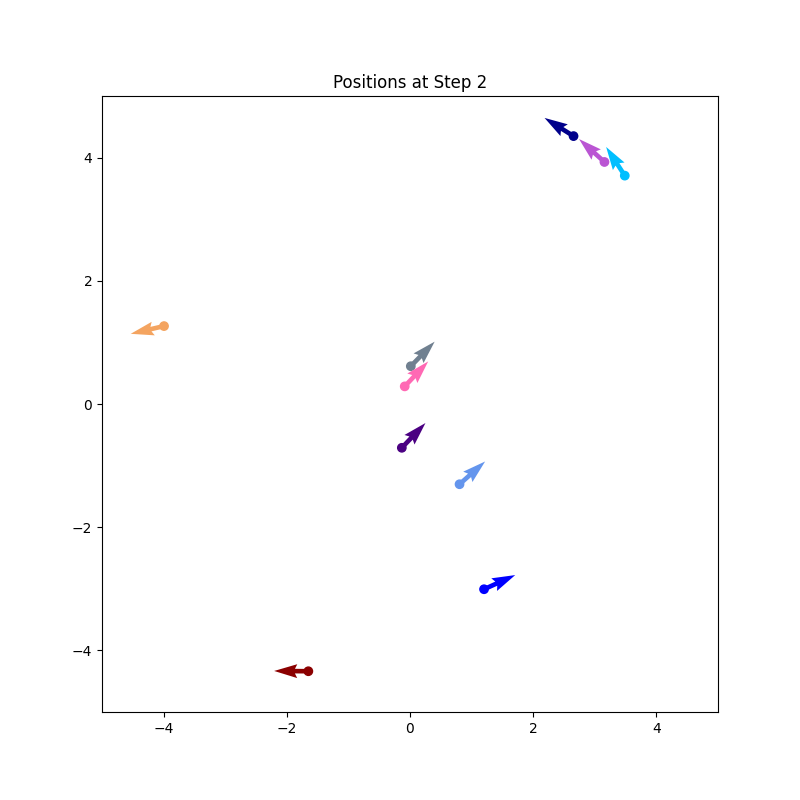
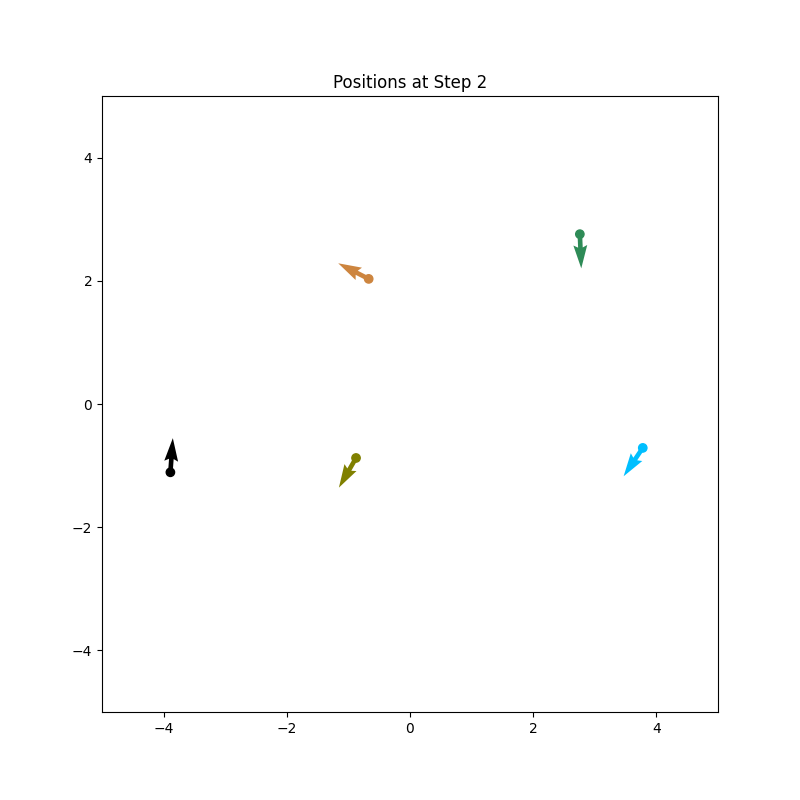
Added steric forces, needs to be corrected

diff --git a/Code/vicsek.py b/Code/vicsek.py
@@ -18,6 +18,7 @@ class Vicsek_continous:
         self.size = L/R
         self.density = (N*R**2)/(L**2)
         self.ratio = v0/R
+        self.Fs_x, self.Fs_y, self.Fl_x, self.Fl_y, self.Fs_pwx, self.Fs_pwy = np.zeros(N), np.zeros(N), np.zeros(N), np.zeros(N), np.zeros(N), np.zeros(N)
 
         orientations = []
         xs = []
@@ -33,6 +34,7 @@ class Vicsek_continous:
         while len(xs) < N:
             x = np.random.uniform(-(L-2*radius)/2, (L-2*radius)/2)
             y = np.random.uniform(-(L-2*radius)/2, (L-2*radius)/2)
+            #Each particle must have a unique initial position
             if not any(np.isclose(x, xs, atol=1.5*radius)) and not any(np.isclose(y, ys, atol=1.5*radius)):
                 xs.append(x)
                 ys.append(y)
@@ -41,15 +43,33 @@ class Vicsek_continous:
         for i in range(len(xs)):
             self.particles.append(Squirmer(xs[i], ys[i], orientations[i], radius, beta, v0))
 
+    def dist_particles(self, particle):
+        #Compute the distance between the particle in argument and the other ones
+        dist = [self.distance(particle, p) for p in self.particles]
+        return dist
+
     def is_light_color(self, hex_color):
+        #Define what a color too bright is
         rgb = matplotlib.colors.hex2color(hex_color)
         luminance = 0.2126 * rgb[0] + 0.7152 * rgb[1] + 0.0722 * rgb[2]
         return luminance > 0.7
 
     def polar_order_parameter(self):
+        #Returns the polar order parameter
         summ = abs(sum(v0*(np.cos(particle.orientation) + np.sin(particle.orientation)) for particle in self.particles))
         polar_order = 1/(self.N*self.v0)*summ
         return polar_order
+    
+    def forcesSteric(self, particle1, particle2):
+        a = self.particles[0].radius
+        Dx = self.vector_x(particle1, particle2)
+        Dy = self.vector_y(particle1, particle2)
+        dist = self.distance(particle1, particle2)
+        #we set self.Es = 1 => Es/a = 1/a
+        tmp = -3*(1/a)*(2*(2*a/dist)**13-(2*a/dist)**7)/np.sqrt(dist)
+        Fs_x = tmp * Dx
+        Fs_y = tmp * Dy
+        return Fs_x, Fs_y
 
     def ref_border_x(self, particle, boundary):
         #reflective border x
@@ -78,8 +98,11 @@ class Vicsek_continous:
         #Compute the distance between two particles
         return np.sqrt((p1.x-p2.x)**2 + (p1.y-p2.y)**2)
     
-    def compute_forces(self):
-        return 0
+    def vector_x(self, p1, p2):
+        return p2.x - p1.x
+    
+    def vector_y(self, p1, p2):
+        return p2.y - p1.y
     
     def average_orient(self, particle):
         #Compute the average particle's orientation near each particle
@@ -95,11 +118,24 @@ class Vicsek_continous:
             new_orient = np.arctan2(np.sin(avrg_orient), np.cos(avrg_orient)) + noise
             particle.orientation = new_orient
 
+    def compute_forces(self):
+        #Compute the steric forces of every particle
+        for i, particle in enumerate(self.particles):
+            dist = self.dist_particles(particle)
+            for j in range(len(dist)):
+                if dist[j] != 0 and dist[j]<=self.R:
+                    tmp_x, tmp_y = self.forcesSteric(particle, self.particles[j])
+                    self.Fs_x[i] += tmp_x
+                    self.Fs_y[i] += tmp_y
+                    self.Fs_x[j] -= tmp_x
+                    self.Fs_y[j] -= tmp_y           
+
     def update_position(self):
         #Update position of each particle
-        for particle in self.particles:
-            particle.x += self.v0*self.dt*np.cos(particle.orientation)
-            particle.y += self.v0*self.dt*np.sin(particle.orientation)
+        for i, particle in enumerate(self.particles):
+            self.compute_forces()
+            particle.x += self.v0*self.dt*(np.cos(particle.orientation) + self.Fs_x[i])
+            particle.y += self.v0*self.dt*(np.sin(particle.orientation) + self.Fs_y[i])
 
             if particle.x >= (self.L/2 - 2*self.particles[0].radius):
                 particle.x, particle.orientation = self.ref_border_x(particle, 1)
@@ -111,6 +147,7 @@ class Vicsek_continous:
                 particle.y, particle.orientation = self.ref_border_y(particle, 2)
 
     def loop_time(self):
+        #Compute the motion of the particles
         for _ in np.arange(self.dt, self.T, self.dt):
             self.update_orient()
             self.update_position()
@@ -125,7 +162,7 @@ class Vicsek_continous:
         ax.set_aspect('equal')
 
 N = 10
-R = 1.0
+R = 0.25
 L = 10.0
 v0 = 1.0
 beta = 0.5
@@ -142,6 +179,11 @@ vicsek_model.plot(ax)
 plt.title("Initial Positions")
 plt.savefig("vicsek_initial_positions.png")
 plt.close()
+w = 0
+for particle in vicsek_model.particles:
+    print(f"x{w} = {particle.x}")
+    print(f"y{w} = {particle.y}")
+    w+=1
 polar = vicsek_model.polar_order_parameter()
 print(f"polar parameter = {polar}")
 
@@ -153,6 +195,11 @@ for step in range(num_steps):
     end_time = time.time()
     sim_time = end_time - start_time
     print(f"Simulation {step + 1} took {sim_time:.2f} seconds")
+    w = 0
+    for particle in vicsek_model.particles:
+        print(f"x{w} = {particle.x}")
+        print(f"y{w} = {particle.y}")
+        w+=1
 
     polar = vicsek_model.polar_order_parameter()
     print(f"polar parameter = {polar}")
